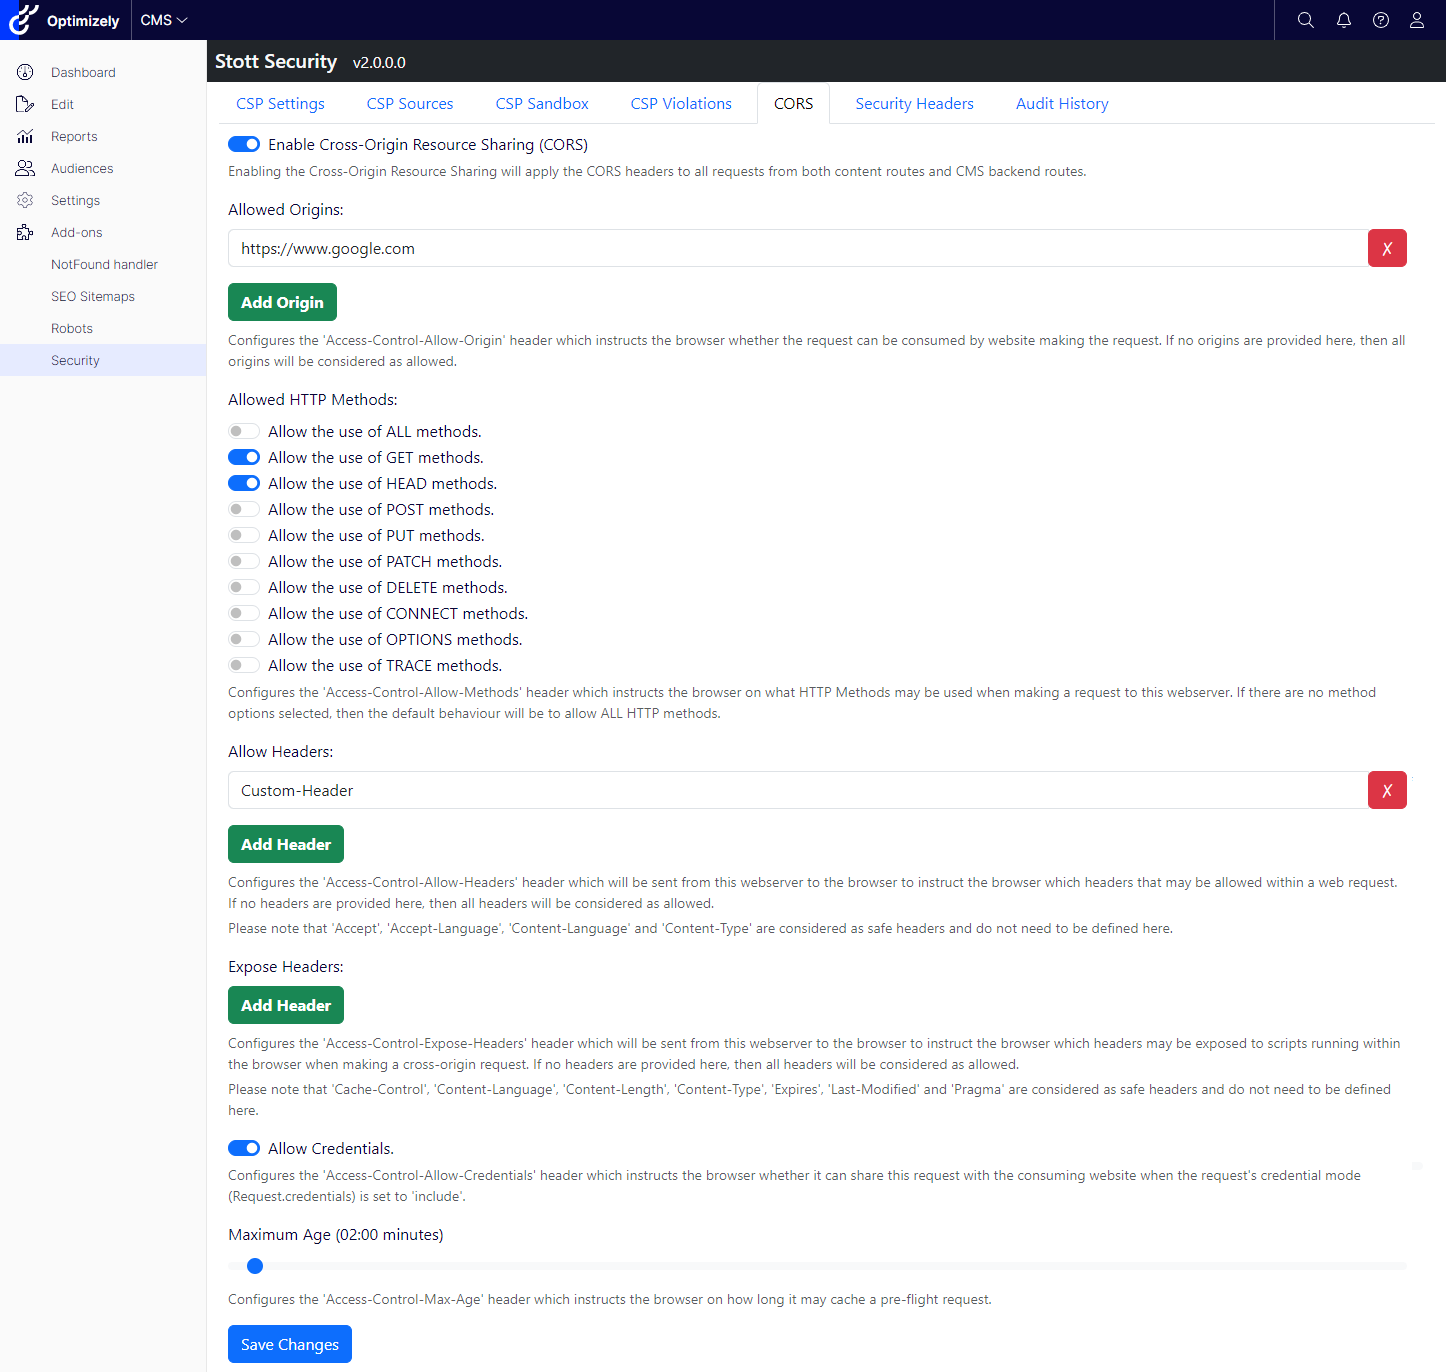
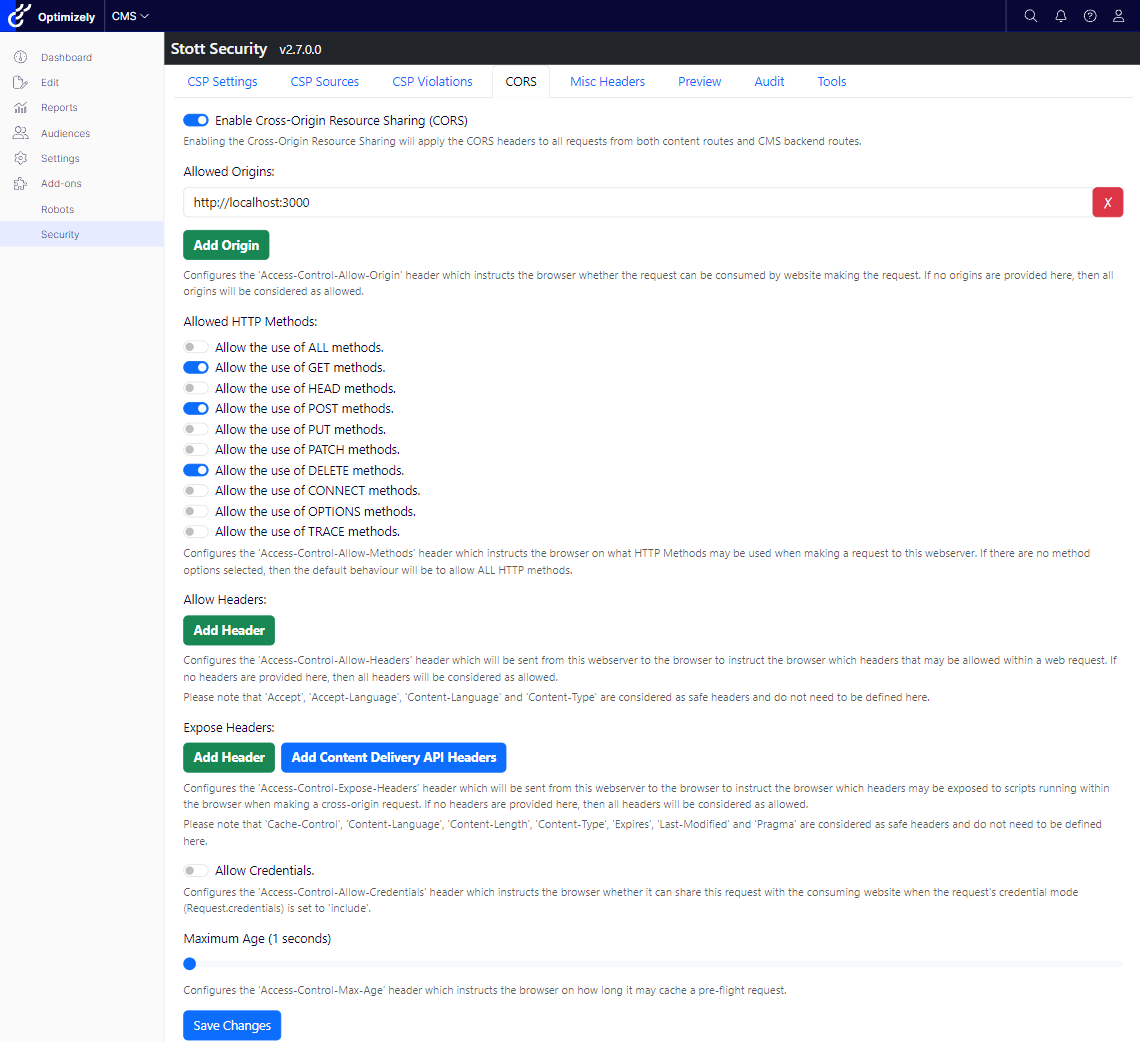
Package as 2.7.0

diff --git a/README.md b/README.md
@@ -110,6 +110,17 @@ The CORS tab is new in version 2.0.0 and allows the user to configure the Cross-
 | Allow Credentials | false |  |
 | Maximum Age | 1 second | 2 hours (1 second when testing third party access) |
 
+**New in version 2.7.0**
+
+A new button has been added called "Add Content Delivery API Headers".  When clicked, the following headers will be added to the list of Expose Headers:
+
+- x-epi-contentguid
+- x-epi-branch
+- x-epi-siteid
+- x-epi-startpageguid
+- x-epi-remainingroute
+- x-epi-contextmode
+
 ### Miscellaneous Headers
 
 The Security Headers tab is a catch all for many simple security headers.  Some of these are deprecated by the existance of a Content Security Policy, but may still be required for older browsers which do not support a Content Security Policy.
@@ -157,13 +168,23 @@ Please note that this module does not contain any code that clears down the audi
 
 ![CORS Tab](/Images/AuditTab.png)
 
-## Tools
+### Tools
 
 The tools tab introduces the ability to import and export your entire configuration.  The Export function will provide you with a JSON file of all of your configuration settings.  The Import function will require the same JSON file structure and will validate the content of the configuration before applying it.
 
 **New in version 2.6.0**
 
 ![Tools Tab](/Images/ToolsTab.png)
+
+### CMS Editor Gadget
+
+As this AddOn supports extending CSP sources for a specific content page, a new CMS Editor Gadget has been created.  This widget will show the Content Security Policy and other headers.  A CMS editor can add the gadget to the CMS interface in the usual manner by clicking on the settings icon in the top right corner of the content tree panel or the top left corner of the assets panel.
+
+This gadget will reload in the context of a specific page when a page is selected in the content tree, alternatively it will reload with a global context if any other type of content is selected.
+
+**New in version 2.7.0**
+
+![CMS Editor Gadget](/Images/CmsEditorWidget.png)
 
 ## Configuration
 
@@ -195,9 +216,9 @@ The call to ```app.UseStottSecurity()``` in the ```Configure(IApplicationBuilder
 
 This solution also includes an implementation of ```IMenuProvider``` which ensures that the CSP administration pages are included in the CMS Admin menu under the title of "CSP".  You do not have to do anything to make this work as Optimizely CMS will scan and action all implementations of ```IMenuProvider```.
 
-### Nonce Specific Support
+### NONCE Specific Support
 
-Optimizely CMS supports `nonce` for rendered content pages, but unfortunately does not support it for the CMS editor or admin interfaces.  In order to maintain compatibility, `nonce` and `strict-dynamic` will only be added to the `Content-Security-Policy` for content page requests and the header list api.
+Optimizely CMS supports `nonce` for rendered content pages, but unfortunately does not support it for the CMS editor or admin interfaces.  In order to maintain compatibility, `nonce` and `strict-dynamic` will only be added to the `Content-Security-Policy` for content page requests and the header list api.  As there is no browser specification on how to apply NONCE to `script-src-attr` and `style-src-attr`, when `nonce` is enabled, it will only be applied to `script-src`, `script-src-elem`, `style-src` and `style-src-elem`.
 
 A tag helper has been created which targets `<script>` and `<style>` tags which have a `nonce` attribute.  This will ensure that the generated nonce for the current request will be updated to have the correct `nonce` value that matches the `content-security-policy` header.  In order for this to work, you will need to do the following:
 
